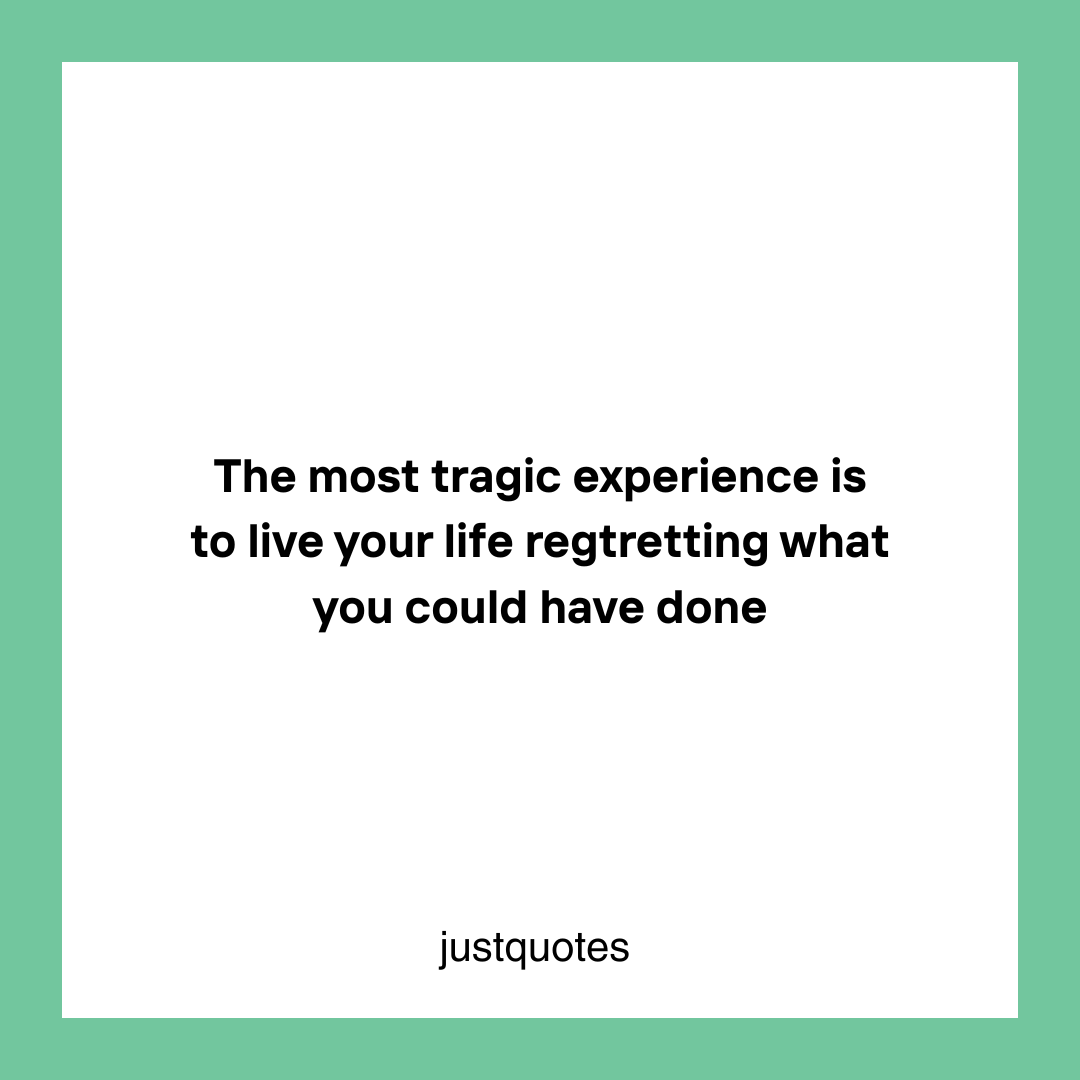
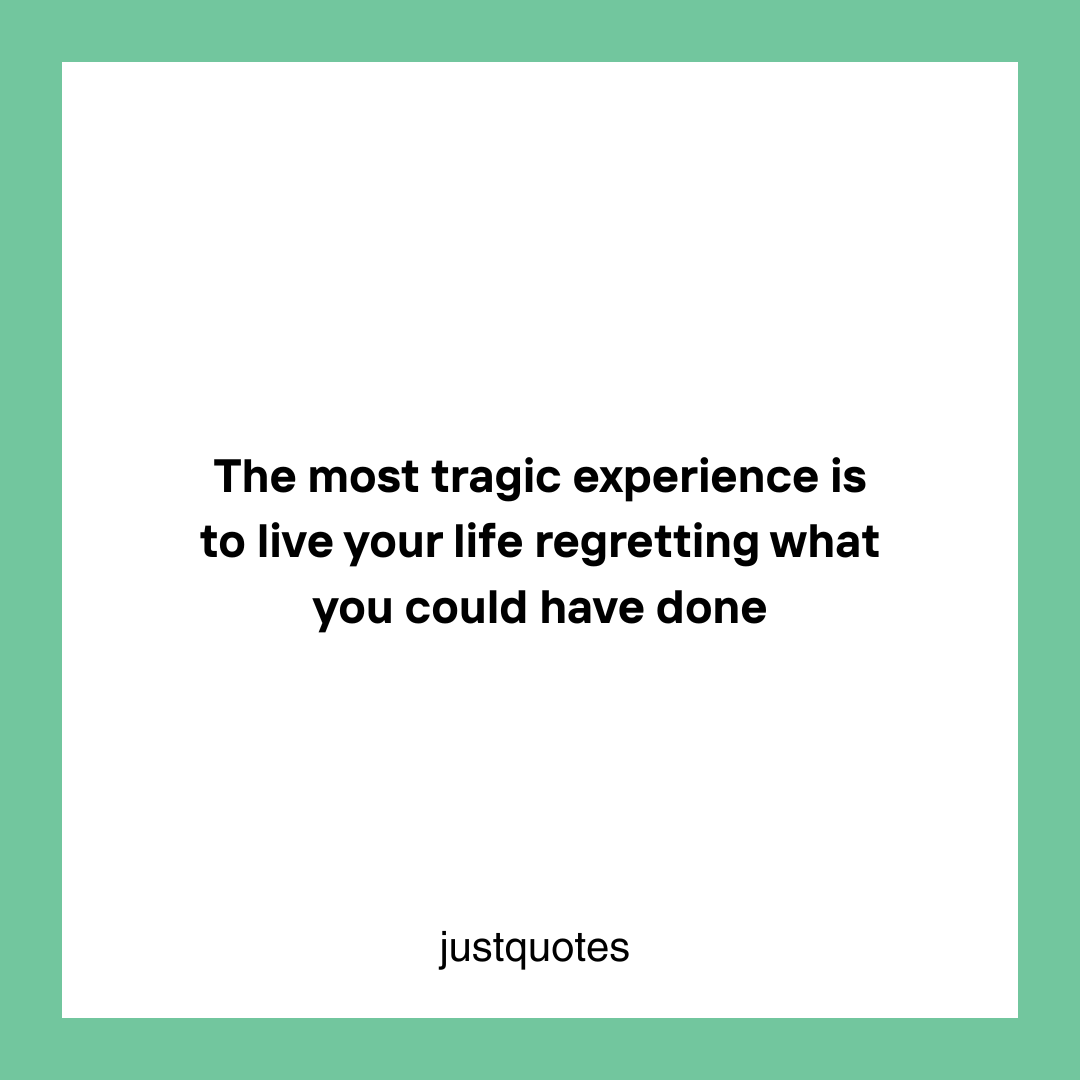
update to device

Changed region(s): [[0.1528, 0.4583, 0.825, 0.5194]]

diff --git a/about.html b/about.html
@@ -13,6 +13,7 @@
     <link rel="icon" type="image/png" sizes="192x192" href="images/icon/apple-touch-icon.png">
     <script async src="https://pagead2.googlesyndication.com/pagead/js/adsbygoogle.js?client=ca-pub-5756292464261205"
      crossorigin="anonymous"></script>
+    <meta name="viewport" content="width=device-width, initial-scale=1.0">
 </head>
 <body>
     <header>

diff --git a/index.html b/index.html
@@ -13,6 +13,7 @@
     <link rel="icon" type="image/png" sizes="192x192" href="images/icon/apple-touch-icon.png">
     <script async src="https://pagead2.googlesyndication.com/pagead/js/adsbygoogle.js?client=ca-pub-5756292464261205"
      crossorigin="anonymous"></script>
+    <meta name="viewport" content="width=device-width, initial-scale=1.0">
 </head>
 <body>
     <header>

diff --git a/written-quotes.html b/written-quotes.html
@@ -13,6 +13,7 @@
     <link rel="icon" type="image/png" sizes="192x192" href="images/icon/apple-touch-icon.png">
     <script async src="https://pagead2.googlesyndication.com/pagead/js/adsbygoogle.js?client=ca-pub-5756292464261205"
      crossorigin="anonymous"></script>
+    <meta name="viewport" content="width=device-width, initial-scale=1.0">
 </head>
 <body>
     <header>
